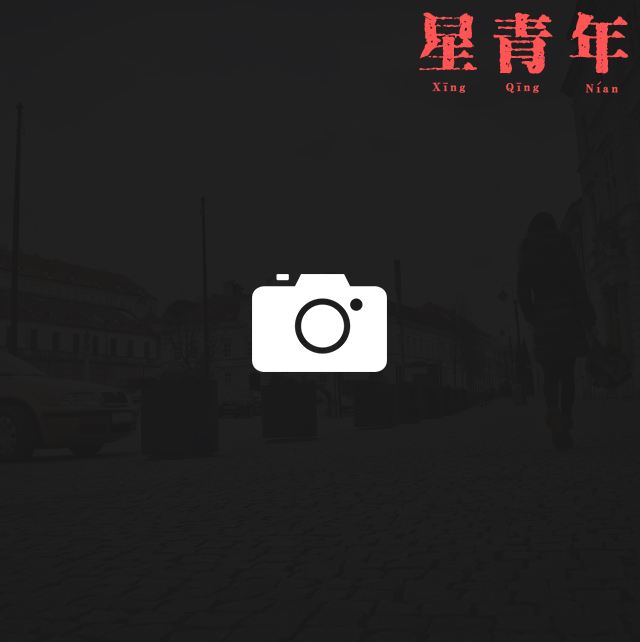
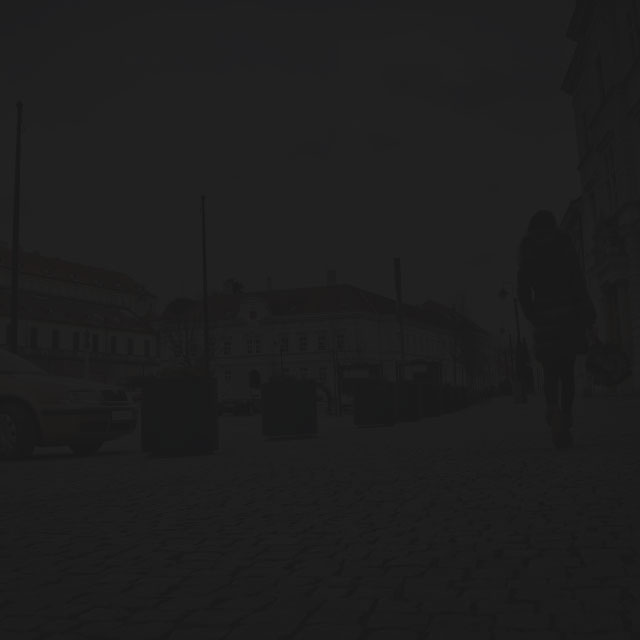
xxx

Changed region(s): [[0.375, 0.4062, 0.625, 0.5938], [0.6562, 0.0, 1.0, 0.1562]]

diff --git a/messi/star/css/index.css b/messi/star/css/index.css
@@ -46,7 +46,10 @@ body{
 .make-btn{display:inline-block;width:177px;height:43px;background:url(../images/make-btn.gif) no-repeat;background-size:100% auto;margin:0 auto;text-decoration:none;color:transparent;}
 
 .upload-btn{position:relative;}
-.upload-file{position:absolute;top:0;left:0;width:100%;height:100%;opacity:0;}
+.upload-btn::before,.upload-btn::after{content:'';display:block;position:absolute;z-index:1;}
+.upload-btn::before{width:105px;height:42px;background:url(../images/watermaker.png) no-repeat;background-size:100% auto;top:10px;right:10px;}
+.upload-btn::after{width:100%;height:100%;left:0;top:0;background:url(../images/take.png) 50% 50% no-repeat;background-size:auto 49px;}
+.upload-file{position:absolute;top:0;left:0;width:100%;height:100%;opacity:0;z-index:3;}
 .upload-msg{width:62%;margin:0 auto;}
 .upload-msg-link{color:#FF5454;}
 .upload-text{font-size:16px;line-height:1.5;}
